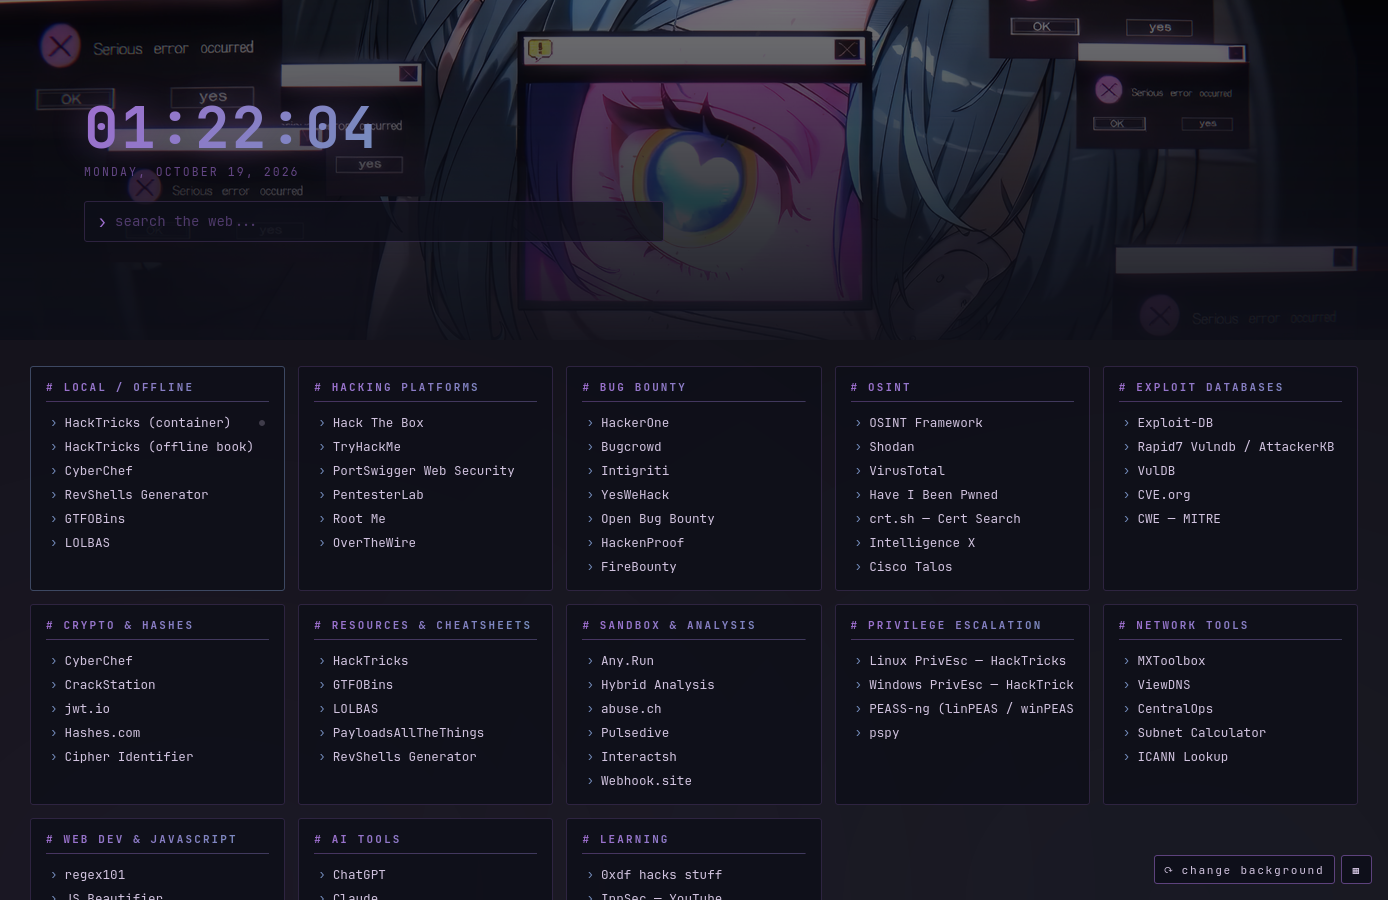
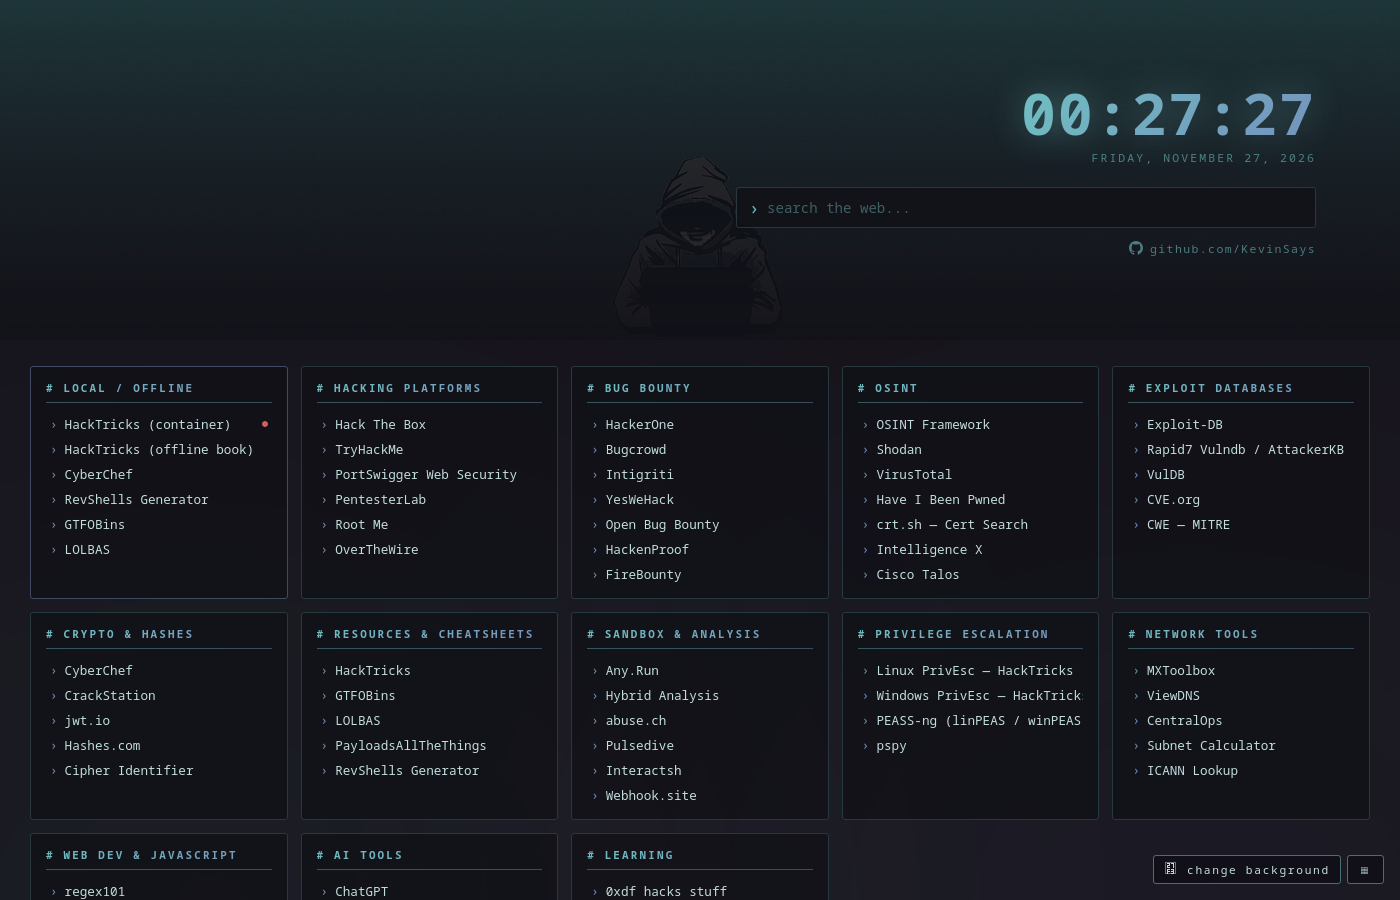
docs: redesign README with quick start, features, HackTricks flow
- Centered header with badges and a fresh screenshot (GitHub link, status dot)
- Three-command quick start using install-newtab.sh, replacing the outdated
  manual YOUR_USERNAME steps
- Feature table, one-click HackTricks section with a popup screenshot and a
  mermaid flow diagram
- Troubleshooting, customizing, file structure and the systemd watcher
  moved into collapsible sections; file structure lists the new scripts

diff --git a/README.md b/README.md
@@ -1,93 +1,106 @@
-# firefox-startpage
+<div align="center">
 
-![screenshot](assets/screenshot.png)
+# ▓▒░ KevinsNighttab ░▒▓
 
-A cyberpunk-themed Firefox new tab page. No extensions required — uses Firefox AutoConfig to load a local HTML file.
+**A cyberpunk new tab page for Firefox, built for hackers.**<br>
+Live clock · search · 60+ curated security links · themed backgrounds · offline tools · one-click local HackTricks
 
-**Features:**
-- Live clock and date
-- DuckDuckGo search bar
-- Link cards: hacking platforms, bug bounty, OSINT, exploit databases, crypto tools, cheatsheets, privesc, learning, and more
-- **Swappable backgrounds** — drop images into `Background/`; each one gets its own theme (palette, dimming, focal point, hero alignment) generated from the image
-- **⟳ change background** button and a thumbnail picker (with a "shuffle each load" option); picks up new images without reloading the page
-- **Local / Offline card** — offline copies of CyberChef, RevShells, GTFOBins and LOLBAS, plus a local HackTricks container with an up/down status dot
-- Monospace font stack (JetBrains Mono / Fira Code / Cascadia Code)
+<br>
 
-## Install
+![Firefox](https://img.shields.io/badge/Firefox-AutoConfig-FF7139?style=for-the-badge&logo=firefoxbrowser&logoColor=white)
+![No extensions](https://img.shields.io/badge/extensions-none-6ec6c4?style=for-the-badge)
+![Linux](https://img.shields.io/badge/Linux-Arch%20%2F%20any-1793D1?style=for-the-badge&logo=archlinux&logoColor=white)
+![Docker](https://img.shields.io/badge/Docker-optional-2496ED?style=for-the-badge&logo=docker&logoColor=white)
 
-### 1. Place the startpage files
+![KevinsNighttab](assets/screenshot.png)
+
+</div>
+
+---
+
+## Quick start
 
 ```sh
+git clone https://github.com/KevinSays/KevinsNighttab.git && cd KevinsNighttab
+
 mkdir -p ~/.local/share/firefox-startpage
 cp -r index.html Background update-backgrounds.py update-local-tools.sh ~/.local/share/firefox-startpage/
+
+sudo ./install-newtab.sh        # new tabs + homepage + launch page → the startpage
 ```
 
-`update-backgrounds.py` needs Python 3 with Pillow (`sudo pacman -S python-pillow` / `pip install pillow`).
+Quit Firefox completely (**Ctrl+Q**), reopen it, and press **Ctrl+T**.
 
-### 2. Find your Firefox install directory
+> Want new tabs only and keep session restore? `sudo ./install-newtab.sh --newtab-only`.
+> Undo everything with `sudo ./install-newtab.sh --undo`. Step-by-step guide with checks: **[INSTALL.md](INSTALL.md)**
+
+---
+
+## Features
+
+| | |
+|---|---|
+| **Clock & search** | Big live clock and date, DuckDuckGo search bar focused and ready to type |
+| **Curated link cards** | Hacking platforms, bug bounty, OSINT, exploit DBs, crypto & hashes, sandboxes, privesc, network tools, web dev, AI, learning |
+| **Themed backgrounds** | Drop an image in `Background/` and it gets its own palette, dimming, focal point and layout, generated from the image itself |
+| **Background picker** | **⟳ change background**, a thumbnail picker, and an optional shuffle on each load. New images show up without a reload |
+| **Offline tools** | Local copies of CyberChef, RevShells, GTFOBins and LOLBAS. They work with no internet |
+| **One-click HackTricks** | Click it and a local HackTricks starts in Docker. It shuts itself down when you close the tab |
+| **No extension** | Uses Firefox's built-in AutoConfig. Nothing to install from the add-on store, and it works for every profile |
+
+---
+
+## One-click local HackTricks
+
+<div align="center">
+<img src="assets/hacktricks-popup.png" alt="HackTricks setup popup" width="85%">
+</div>
+
+<br>
+
+Install the helper once (no sudo):
 
 ```sh
-which firefox          # e.g. /usr/bin/firefox → install dir is /usr/lib/firefox
-# or for Firefox ESR:
-which firefox-esr
-ls /opt/firefox-esr/   # if manually installed
+./install-hacktricks.sh
 ```
 
-### 3. Install the AutoConfig files
+Then just click **HackTricks (container)** on the startpage. New user with nothing set up? Popups walk you through it,
+asking before each step: downloading HackTricks (~350 MB), installing and starting Docker, joining the `docker` group,
+and pulling the image.
 
-Replace `YOUR_FIREFOX_DIR` with your actual path and `YOUR_USERNAME` with your Linux username.
-
-```sh
-# Edit mozilla.cfg — replace YOUR_USERNAME with your actual username
-nano mozilla.cfg
-
-# Then copy both files:
-sudo cp autoconfig.js YOUR_FIREFOX_DIR/defaults/pref/autoconfig.js
-sudo cp mozilla.cfg YOUR_FIREFOX_DIR/mozilla.cfg
+```mermaid
+flowchart LR
+    A([Click HackTricks]) --> B{Running?}
+    B -- yes --> C([Opens instantly])
+    B -- no --> D[hacktricks:// link<br>runs the helper]
+    D --> E[Setup popups<br>if anything is missing]
+    E --> F[Build book<br>only if it changed]
+    F --> G([Tab opens<br>localhost:3337])
+    G -. last tab closed + 90 s .-> H([Container stops<br>RAM freed])
 ```
 
-The path to update in `mozilla.cfg`:
-```
-file:///home/YOUR_USERNAME/.local/share/firefox-startpage/index.html
-```
+- **Light.** About **20 MB of RAM** while running, instead of ~4.5 GB for `mdbook serve`.
+- **Stops itself.** It shuts down ~90 s after your last HackTricks tab closes. Open tabs keep it alive, even in the background.
+- **Fast restarts.** A few seconds, unless HackTricks changed upstream (then it rebuilds, about a minute).
+- **Local only.** It listens on `127.0.0.1`, not your Wi-Fi.
 
-### 4. Restart Firefox
+From a terminal: `hacktricks` (re)starts it, `docker stop hacktricks` stops it, and `HT_IDLE=300 hacktricks` changes the idle timeout (`0` = never stop).
 
-Fully quit Firefox (all windows/processes, not just close-window) and relaunch. New tabs should now open the startpage.
-
-**Troubleshooting:** (step-by-step version for both regular Firefox and ESR, with checks and undo: [NEWTAB-SETUP.md](NEWTAB-SETUP.md))
-- Verify the path in `mozilla.cfg` matches where you placed `index.html`
-- Make sure both AutoConfig files are in the right Firefox directory
-- Firefox ESR and standard Firefox have separate install dirs — edit the right one
-- **Standard release Firefox sandboxes AutoConfig by default**, which silently no-ops the `ChromeUtils.importESModule(...)` line in `mozilla.cfg` (no error shown). `autoconfig.js` already sets `pref("general.config.sandbox_enabled", false);` to disable that — if new tabs still show the default page, confirm this pref actually landed in the installed `autoconfig.js`.
-- **Check for a conflicting extension.** Any extension with `chrome_url_overrides.newtab` in its manifest (e.g. another new-tab-replacement addon) silently overrides AutoConfig. Check `about:addons` → Extensions and disable/remove anything else controlling the new tab page.
-
-### Optional: Set as homepage too
-
-`browser.startup.homepage` only affects the Home button and new windows — it does **not** control what loads when Firefox first launches (that's `browser.startup.page`, usually defaulting to "resume previous session"). To also show the startpage on launch, add both lines to `~/.mozilla/firefox/YOUR_PROFILE/user.js`:
-
-```js
-user_pref("browser.startup.homepage", "file:///home/YOUR_USERNAME/.local/share/firefox-startpage/index.html");
-user_pref("browser.startup.page", 1);
-```
-
-This replaces session-resume behavior on launch (old tabs are still recoverable via History → Restore Previous Session). Put changes in `user.js`, not `prefs.js` — Firefox overwrites `prefs.js` from memory on exit, so direct edits there get silently reverted.
+---
 
 ## Backgrounds
 
-Put any `.png` / `.jpg` / `.webp` / `.gif` / `.bmp` / `.avif` into `Background/`, then run:
+Drop any `.png` `.jpg` `.webp` `.gif` `.bmp` `.avif` into `~/.local/share/firefox-startpage/Background/`, then run:
 
 ```sh
-~/.local/share/firefox-startpage/update-backgrounds.py
+~/.local/share/firefox-startpage/update-backgrounds.py     # needs Python 3 + Pillow
 ```
 
-This writes `Background/backgrounds.js` (palette + layout per image) and thumbnails in `Background/.thumbs/`. It has to run outside the browser: a `file://` page can't list a folder or read pixels from local images. The page re-reads `backgrounds.js` whenever you click **⟳ change background** or open the picker, so no reload is needed. With no backgrounds at all, the page falls back to the original purple theme.
+Each image gets its own theme in `Background/backgrounds.js`, with thumbnails in `Background/.thumbs/`. Force one with a URL hash,
+e.g. `index.html#bg=LoneHacker.png`. With no images, the page falls back to the original purple theme.
 
-You can force a background with a URL hash, e.g. `index.html#bg=LoneHacker.png`.
-
-### Optional: regenerate automatically
-
-A systemd user path unit re-runs the script whenever `Background/` changes:
+<details>
+<summary><b>Regenerate automatically when the folder changes (systemd)</b></summary>
 
 ```sh
 mkdir -p ~/.config/systemd/user
@@ -100,42 +113,89 @@ systemctl --user disable --now startpage-backgrounds.path  # turn it off
 ```
 
 The script only rewrites `backgrounds.js` when its content changes, so its own write doesn't re-trigger the watcher.
+It has to run outside the browser, because a `file://` page can't list a folder or read pixels from local images.
+</details>
 
-## Local / Offline tools
+---
+
+## Offline tools
 
 ```sh
 ~/.local/share/firefox-startpage/update-local-tools.sh            # download / refresh all (~95 MB)
-~/.local/share/firefox-startpage/update-local-tools.sh cyberchef  # or one: cyberchef|revshells|gtfobins|lolbas
+~/.local/share/firefox-startpage/update-local-tools.sh cyberchef  # or one: cyberchef | revshells | gtfobins | lolbas
 ```
 
 Copies land in `local/` (git-ignored). Needs `curl`, `jq`, `unzip`, `git`, `wget`.
 
-The HackTricks links expect a local [HackTricks](https://github.com/HackTricks-wiki/hacktricks) checkout at `~/hacktricks`, served by Docker on `http://localhost:3337` (the dot next to the link shows whether it's up). Run `./install-hacktricks.sh` once and clicking the link starts the container (it stops itself ~90 s after the last HackTricks tab closes), with popups that walk new users through installing Docker and downloading HackTricks (see [INSTALL.md](INSTALL.md#optional-one-click-local-hacktricks)). The "offline book" link opens `~/hacktricks/book/` from disk; its search only works through the container.
+---
+
+<details>
+<summary><b>Troubleshooting</b></summary>
+
+<br>
+
+| Symptom | Fix |
+|---|---|
+| New tab still shows Firefox's default page | Firefox wasn't fully quit: `pgrep -a firefox` must print nothing. Or the files are in the wrong install dir, see [INSTALL.md § 2](INSTALL.md#2-find-your-firefox-install-directory) |
+| Files are right but still the default | `mozilla.cfg` line 1 must be `//`, and `autoconfig.js` needs `sandbox_enabled false` (regular Firefox silently ignores the config without it) |
+| An old or other page shows | Another extension controls new tabs. Disable it in `about:addons` |
+| HackTricks popup says "the helper never answered" | Run `./install-hacktricks.sh`, then click the link again |
+| HackTricks says reboot | The kernel was updated without a reboot, so Docker's networking modules are gone. Reboot |
+
+More in [INSTALL.md](INSTALL.md#troubleshooting) and [NEWTAB-SETUP.md](NEWTAB-SETUP.md).
+</details>
+
+<details>
+<summary><b>Customizing</b></summary>
+
+<br>
+
+- **Links:** edit the cards in `index.html`. Each `.card` block is self-contained.
+- **Colors:** theme colors are CSS variables at the top of the `<style>` block, as RGB triplets (`--accent-rgb` etc.) so each
+  background can override them. Use `rgba(var(--accent-rgb), …)` instead of hardcoded colors.
+- **Profiles:** AutoConfig applies to every profile of that Firefox install.
+- **Upgrades:** on Arch the pacman package doesn't own the AutoConfig files, so updates leave them alone. Manual `/opt` installs
+  may need `sudo ./install-newtab.sh` again after an upgrade.
+</details>
+
+<details>
+<summary><b>File structure</b></summary>
+
+<br>
+
+```
+KevinsNighttab/
+├── index.html                 # the startpage
+├── Background/
+│   ├── *.png                  # background images (add/remove freely)
+│   ├── backgrounds.js         # generated: per-image theme + layout
+│   └── .thumbs/               # generated: picker thumbnails
+├── update-backgrounds.py      # regenerates Background/backgrounds.js
+├── update-local-tools.sh      # downloads offline tool copies into local/
+├── install-newtab.sh          # installs the Firefox AutoConfig files (sudo)
+├── install-hacktricks.sh      # installs the one-click HackTricks helper
+├── hacktricks/
+│   ├── hacktricks-start       # setup popups + starts the container
+│   ├── hacktricks-handler.desktop   # handles hacktricks:// links
+│   └── serve.py               # light book server with idle shutdown
+├── systemd/                   # optional watcher for Background/
+├── autoconfig.js, mozilla.cfg # AutoConfig templates (the installer writes its own)
+├── INSTALL.md, NEWTAB-SETUP.md
+└── assets/                    # README screenshots
+```
+</details>
+
+---
 
 ## Artwork notice
 
-The background images in `Background/` are **either AI-generated or not my own work**, and I do not know their original creators. If you are the artist behind any of them and would like it removed or credited, please [open an issue](https://github.com/KevinSays/KevinsNighttab/issues) or contact me, and I will work with you to remove it or credit you properly.
+The background images in `Background/` are **either AI-generated or not my own work**, and I do not know their original creators.
+If you are the artist behind any of them and would like it removed or credited, please
+[open an issue](https://github.com/KevinSays/KevinsNighttab/issues) or contact me, and I will work with you to remove it or credit you properly.
 
-## Notes
+<div align="center">
+<br>
 
-- **Package updates**: `mozilla.cfg` lives in the Firefox install dir and may be overwritten by major upgrades. Re-copy it after updates.
-- **Multiple profiles**: The AutoConfig applies to all profiles in that Firefox install.
-- **Customizing links**: Edit the cards directly in `index.html` — each `.card` block is self-contained.
-- **Colors**: Theme colors are CSS variables at the top of the `<style>` block, set as RGB triplets (`--accent-rgb` etc.) so each background can override them. Use `rgba(var(--accent-rgb), …)` rather than hardcoding colors.
+Made by **[KevinSays](https://github.com/KevinSays)** · Star the repo if it lives in your new tab
 
-## File Structure
-
-```
-firefox-startpage/
-├── index.html               # The startpage
-├── Background/
-│   ├── *.png                # Background images (add/remove freely)
-│   ├── backgrounds.js       # Generated: per-image theme + layout
-│   └── .thumbs/             # Generated: picker thumbnails
-├── update-backgrounds.py    # Regenerates Background/backgrounds.js
-├── update-local-tools.sh    # Downloads offline tool copies into local/
-├── systemd/                 # Optional watcher for Background/
-├── assets/screenshot.png
-├── autoconfig.js            # Tells Firefox to load mozilla.cfg
-└── mozilla.cfg              # Redirects new tab to the local HTML file
-```
+</div>
